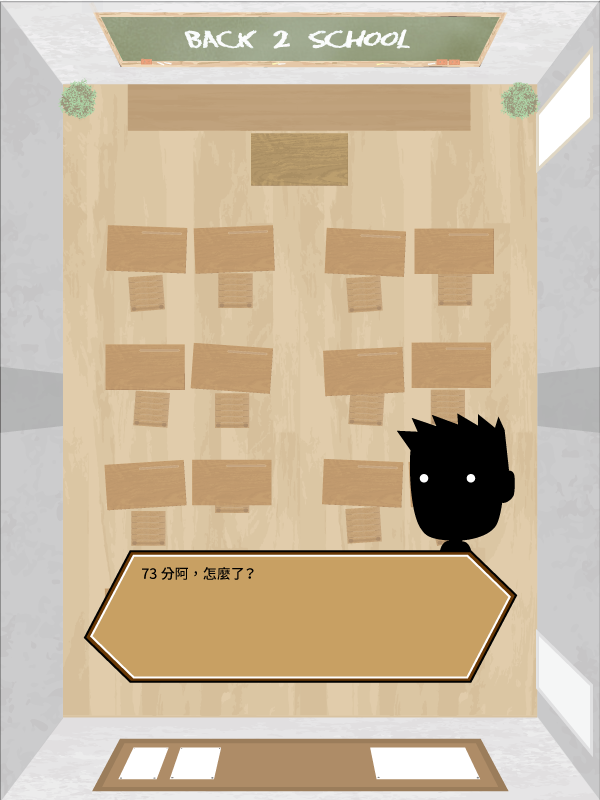
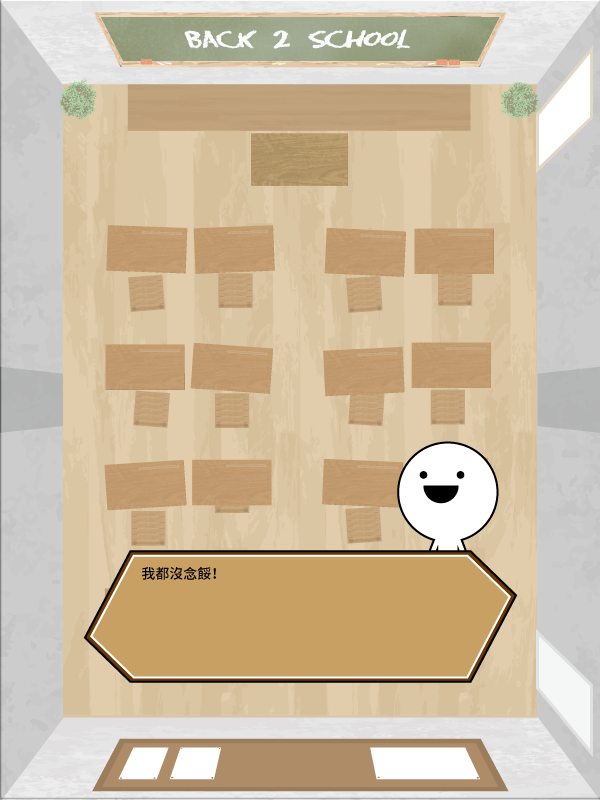
add completly story

Changed region(s): [[0.66, 0.5, 0.87, 0.6875], [0.24, 0.6875, 0.42, 0.75]]

diff --git a/src/dev/jadez/cheatgame/input/MouseManager.java b/src/dev/jadez/cheatgame/input/MouseManager.java
@@ -45,7 +45,7 @@ public class MouseManager implements MouseListener,MouseMotionListener {
 				if(my >= 500 && my <= 600) {
 					//System.out.println("HIT");
 					//game.initGame();
-					State.setState(game.getState(4));
+					State.setState(game.getState(11));
 					return;
 				}
 				
@@ -61,7 +61,7 @@ public class MouseManager implements MouseListener,MouseMotionListener {
 		if(game.stateNumber == 12) {
 			//System.out.println("HIT");
 			//game.initGame();
-			State.setState(game.getState(13));
+			State.setState(game.getState(1));
 			return;
 		}
 		if(game.stateNumber == 13) {
@@ -73,7 +73,7 @@ public class MouseManager implements MouseListener,MouseMotionListener {
 		if(game.stateNumber == 14) {
 			//System.out.println("HIT");
 			//game.initGame();
-			State.setState(game.getState(1));
+			State.setState(game.getState(15));
 			return;
 		}
 		if(game.stateNumber == 15) {
@@ -85,7 +85,7 @@ public class MouseManager implements MouseListener,MouseMotionListener {
 		if(game.stateNumber == 16) {
 			//System.out.println("HIT");
 			//game.initGame();
-			State.setState(game.getState(17));
+			State.setState(game.getState(2));
 			return;
 		}
 		if(game.stateNumber == 17) {
@@ -97,7 +97,7 @@ public class MouseManager implements MouseListener,MouseMotionListener {
 		if(game.stateNumber == 18) {
 			//System.out.println("HIT");
 			//game.initGame();
-			State.setState(game.getState(2));
+			State.setState(game.getState(19));
 			return;
 		}
 		if(game.stateNumber == 19) {
@@ -128,15 +128,59 @@ public class MouseManager implements MouseListener,MouseMotionListener {
 		if(game.stateNumber == 23) {
 			//System.out.println("HIT");
 			//game.initGame();
-			State.setState(game.getState(3));
+			State.setState(game.getState(24));
 			return;
 		}
 		if(game.stateNumber == 24) {
 			//System.out.println("HIT");
 			//game.initGame();
+			State.setState(game.getState(3));
+			return;
+		}
+		if(game.stateNumber == 25) {
+			//System.out.println("HIT");
+			//game.initGame();
+			State.setState(game.getState(26));
+			return;
+		}
+		if(game.stateNumber == 26) {
+			//System.out.println("HIT");
+			//game.initGame();
+			State.setState(game.getState(27));
+			return;
+		}
+		if(game.stateNumber == 27) {
+			//System.out.println("HIT");
+			//game.initGame();
+			State.setState(game.getState(28));
+			return;
+		}
+		if(game.stateNumber == 28) {
+			//System.out.println("HIT");
+			//game.initGame();
+			State.setState(game.getState(29));
+			return;
+		}
+		if(game.stateNumber == 29) {
+			//System.out.println("HIT");
+			//game.initGame();
+			State.setState(game.getState(30));
+			return;
+		}
+		if(game.stateNumber == 30) {
+			//System.out.println("HIT");
+			//game.initGame();
+			State.setState(game.getState(31));
+			return;
+		}
+		if(game.stateNumber == 31) {
+			//System.out.println("HIT");
+			//game.initGame();
 			State.setState(game.getState(4));
 			return;
 		}
+		
+		
 		
 		if(game.stateNumber == 6) {
 			int mx = e.getX();

diff --git a/src/dev/jadez/cheatgame/Game.java b/src/dev/jadez/cheatgame/Game.java
@@ -61,6 +61,13 @@ public class Game implements Runnable{
 	private State storyState12;
 	private State storyState13;
 	private State storyState14;
+	private State storyState15;
+	private State storyState16;
+	private State storyState17;
+	private State storyState18;
+	private State storyState19;
+	private State storyState20;
+	private State storyState21;
 	//private State gameStatetmp;
 	//private Menu menu;
 	//private State menuState;
@@ -127,6 +134,13 @@ public class Game implements Runnable{
 		storyState12 = new StoryState(this);
 		storyState13 = new StoryState(this);
 		storyState14 = new StoryState(this);
+		storyState15 = new StoryState(this);
+		storyState16 = new StoryState(this);
+		storyState17 = new StoryState(this);
+		storyState18 = new StoryState(this);
+		storyState19 = new StoryState(this);
+		storyState20 = new StoryState(this);
+		storyState21 = new StoryState(this);
 	}
 	
 	private void tick() {
@@ -339,6 +353,34 @@ public class Game implements Runnable{
 		if(i == 24) {
 			stateNumber = 24;
 			return storyState14;
+		}
+		if(i == 25) {
+			stateNumber = 25;
+			return storyState15;
+		}
+		if(i == 26) {
+			stateNumber = 26;
+			return storyState16;
+		}
+		if(i == 27) {
+			stateNumber = 27;
+			return storyState17;
+		}
+		if(i == 28) {
+			stateNumber = 28;
+			return storyState18;
+		}
+		if(i == 29) {
+			stateNumber = 29;
+			return storyState19;
+		}
+		if(i == 30) {
+			stateNumber = 30;
+			return storyState20;
+		}
+		if(i == 31) {
+			stateNumber = 31;
+			return storyState21;
 		}
 		else {
 			stateNumber = -1;

diff --git a/src/dev/jadez/cheatgame/states/StoryState.java b/src/dev/jadez/cheatgame/states/StoryState.java
@@ -60,5 +60,19 @@ public class StoryState extends State{
 			g.drawImage(ImageLoader.loadImage("/story/dialog13.png"), 0, 0, null);
 		if(game.stateNumber == 24)
 			g.drawImage(ImageLoader.loadImage("/story/dialog14.png"), 0, 0, null);
+		if(game.stateNumber == 25)
+			g.drawImage(ImageLoader.loadImage("/story/dialog15.png"), 0, 0, null);
+		if(game.stateNumber == 26)
+			g.drawImage(ImageLoader.loadImage("/story/dialog16.png"), 0, 0, null);
+		if(game.stateNumber == 27)
+			g.drawImage(ImageLoader.loadImage("/story/dialog17.png"), 0, 0, null);
+		if(game.stateNumber == 28)
+			g.drawImage(ImageLoader.loadImage("/story/dialog18.png"), 0, 0, null);
+		if(game.stateNumber == 29)
+			g.drawImage(ImageLoader.loadImage("/story/dialog19.png"), 0, 0, null);
+		if(game.stateNumber == 30)
+			g.drawImage(ImageLoader.loadImage("/story/dialog20.png"), 0, 0, null);
+		if(game.stateNumber == 31)
+			g.drawImage(ImageLoader.loadImage("/story/dialog21.png"), 0, 0, null);
 	}
 }

diff --git a/src/dev/jadez/cheatgame/states/GameState3.java b/src/dev/jadez/cheatgame/states/GameState3.java
@@ -66,7 +66,7 @@ public class GameState3 extends State{
 		full = progressbar.getFull();
 		if(full) {
 			//System.out.println("win");
-			State.setState(game.getState(24));
+			State.setState(game.getState(25));
 			
 		}
 			

diff --git a/src/dev/jadez/cheatgame/states/GameState2.java b/src/dev/jadez/cheatgame/states/GameState2.java
@@ -68,7 +68,7 @@ public class GameState2 extends State{
 			
 			//System.out.println("win");
 			//game.init();
-			State.setState(game.getState(19));
+			State.setState(game.getState(17));
 			
 		}
 			

diff --git a/src/dev/jadez/cheatgame/states/GameState.java b/src/dev/jadez/cheatgame/states/GameState.java
@@ -59,7 +59,7 @@ public class GameState extends State{
 		if(full) {
 			
 			//System.out.println("win");
-			State.setState(game.getState(15));
+			State.setState(game.getState(13));
 			
 		}
 			
